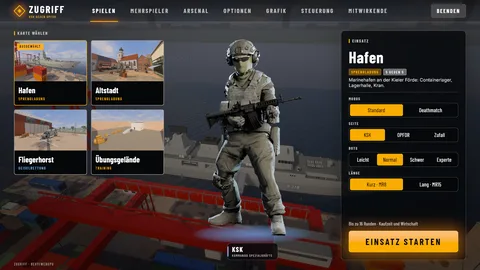
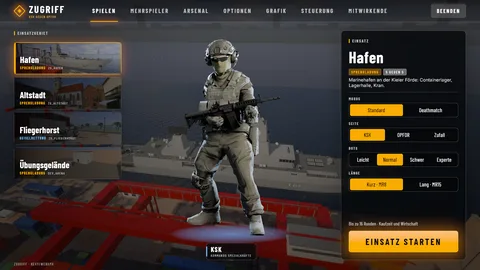
Restore the original vertical map selection layout

Changed region(s): [[0.0, 0.1185, 0.7188, 1.0], [0.9688, 0.8, 1.0, 0.8593], [0.7188, 0.9778, 0.7812, 1.0]]

diff --git a/game/src/menu.rs b/game/src/menu.rs
@@ -419,7 +419,14 @@ fn emblem(c: &mut ChildSpawnerCommands, size: f32) {
 /// Maps on the left, the operator in the middle, the settings and the start on the right.
 fn lobby(body: &mut ChildSpawnerCommands, f: &Fonts, server: &AssetServer, setup: &MatchSettings) {
     body.spawn(Node { width: Val::Percent(100.0), height: Val::Percent(100.0), column_gap: Val::Px(32.0), ..default() }).with_children(|row| {
-        map_picker(row, f, server, &setup.map, Act::Map);
+        // Maps.
+        row.spawn(Node { width: Val::Px(430.0), flex_shrink: 0.0, flex_direction: FlexDirection::Column, row_gap: Val::Px(12.0), ..default() }).with_children(|col| {
+            section(col, f, "Einsatzgebiet");
+            col.spawn(Node { height: Val::Px(2.0), ..default() });
+            for (i, m) in MAPS.iter().enumerate() {
+                map_card(col, f, server, i, m, setup.map == m.name);
+            }
+        });
         // The operator.
         row.spawn(Node { flex_grow: 1.0, height: Val::Percent(100.0), flex_direction: FlexDirection::Column, justify_content: JustifyContent::End, align_items: AlignItems::Center, min_width: Val::Px(0.0), ..default() }).with_children(|mid| {
             let sides: Vec<Team> = setup.team.map_or(vec![Team::Ksk, Team::Opfor], |t| vec![t]);
@@ -504,36 +511,30 @@ fn nameplate(c: &mut ChildSpawnerCommands, f: &Fonts, t: Team) {
     });
 }
 
-/// The same map choices in solo play and room creation. Keep the full preview visible;
-/// labels live below the image so even an unselected map is easy to recognise.
-pub(crate) fn map_picker<A: Component>(c: &mut ChildSpawnerCommands, f: &Fonts, server: &AssetServer, selected: &str, action: impl Fn(usize) -> A) {
-    c.spawn(Node { width: Val::Px(600.0), flex_shrink: 0.0, flex_direction: FlexDirection::Column, row_gap: Val::Px(18.0), ..default() }).with_children(|col| {
-        section(col, f, "Karte wählen");
-        col.spawn(Node { display: Display::Grid, width: Val::Percent(100.0), grid_template_columns: RepeatedGridTrack::flex(2, 1.0), column_gap: Val::Px(16.0), row_gap: Val::Px(16.0), ..default() }).with_children(|grid| {
-            for (i, m) in MAPS.iter().enumerate() {
-                let on = selected == m.name;
-                let border = if on { AMBER } else { LINE_HI };
-                grid.spawn((
-                    Button,
-                    Node { min_width: Val::Px(0.0), border: UiRect::all(Val::Px(2.0)), border_radius: BorderRadius::all(Val::Px(8.0)), overflow: Overflow::clip(), flex_direction: FlexDirection::Column, ..default() },
-                    BackgroundColor(INK),
-                    BorderColor::all(border),
-                    Hover::new(INK, GLASS_HI, border, if on { AMBER_HI } else { SOFT }),
-                    action(i),
-                )).with_children(|card| {
-                    card.spawn((Node { width: Val::Percent(100.0), aspect_ratio: Some(16.0 / 9.0), flex_shrink: 0.0, ..default() }, ImageNode::new(server.load(format!("thumbs/{}.jpg", m.name))), Pickable::IGNORE)).with_children(|preview| {
-                        if on {
-                            preview.spawn((Node { position_type: PositionType::Absolute, top: Val::Px(10.0), left: Val::Px(10.0), padding: UiRect::axes(Val::Px(10.0), Val::Px(5.0)), border_radius: BorderRadius::all(Val::Px(3.0)), ..default() }, BackgroundColor(AMBER), Pickable::IGNORE)).with_children(|badge| {
-                                badge.spawn((caps("Ausgewählt", &f.bold, 14.0, INK), Pickable::IGNORE));
-                            });
-                        }
-                    });
-                    card.spawn((Node { flex_direction: FlexDirection::Column, padding: UiRect::all(Val::Px(16.0)), row_gap: Val::Px(6.0), ..default() }, Pickable::IGNORE)).with_children(|caption| {
-                        caption.spawn((text(m.title, &f.bold, 32.0, Color::WHITE), Pickable::IGNORE));
-                        caption.spawn((caps(if m.name == "dev_arena" { "Training" } else { m.objective }, &f.label, 15.0, objective_color(m.objective)), Pickable::IGNORE));
-                    });
-                });
-            }
+fn map_card(c: &mut ChildSpawnerCommands, f: &Fonts, server: &AssetServer, i: usize, m: &MapInfo, on: bool) {
+    let border = if on { AMBER } else { LINE };
+    c.spawn((
+        Button,
+        Node { width: Val::Percent(100.0), height: Val::Px(128.0), border: UiRect::all(Val::Px(if on { 2.0 } else { 1.0 })), border_radius: BorderRadius::all(Val::Px(12.0)), overflow: Overflow::clip(), align_items: AlignItems::End, ..default() },
+        BackgroundColor(GLASS_HI),
+        BorderColor::all(border),
+        Hover::new(GLASS_HI, GLASS_HI, border, if on { AMBER_HI } else { LINE_HI }),
+        BoxShadow::new(if on { Color::srgba(1.0, 0.6, 0.0, 0.25) } else { Color::srgba(0.0, 0.0, 0.0, 0.4) }, Val::Px(0.0), Val::Px(6.0), Val::Px(0.0), Val::Px(20.0)),
+        Act::Map(i),
+    ))
+    .with_children(|card| {
+        // The refreshed 16:9 preview, centred in the original strip.
+        card.spawn((Node { position_type: PositionType::Absolute, left: Val::Px(0.0), top: Val::Px(-57.0), width: Val::Percent(100.0), aspect_ratio: Some(16.0 / 9.0), ..default() }, ImageNode::new(server.load(format!("thumbs/{}.jpg", m.name))).with_color(if on { Color::srgb(0.8, 0.8, 0.8) } else { Color::srgb(0.42, 0.44, 0.46) }), Pickable::IGNORE));
+        card.spawn((full(), BackgroundGradient::from(LinearGradient::to_right(vec![ColorStop::percent(Color::srgba(0.01, 0.015, 0.02, 0.92), 0.0), ColorStop::percent(Color::srgba(0.01, 0.015, 0.02, 0.0), 100.0)])), Pickable::IGNORE));
+        if on {
+            card.spawn((Node { position_type: PositionType::Absolute, left: Val::Px(0.0), top: Val::Px(0.0), bottom: Val::Px(0.0), width: Val::Px(5.0), ..default() }, BackgroundColor(AMBER), Pickable::IGNORE));
+        }
+        card.spawn((Node { flex_direction: FlexDirection::Column, padding: UiRect::new(Val::Px(22.0), Val::Px(16.0), Val::Px(0.0), Val::Px(14.0)), row_gap: Val::Px(4.0), ..default() }, Pickable::IGNORE)).with_children(|t| {
+            t.spawn((text(m.title, &f.bold, 36.0, Color::WHITE), TextShadow { offset: Vec2::splat(2.0), color: Color::srgba(0.0, 0.0, 0.0, 0.6) }, Pickable::IGNORE));
+            t.spawn(Node { column_gap: Val::Px(10.0), align_items: AlignItems::Center, ..default() }).with_children(|r| {
+                r.spawn((caps(m.objective, &f.bold, 14.0, objective_color(m.objective)), Pickable::IGNORE));
+                r.spawn((caps(m.name, &f.label, 13.0, DIM), Pickable::IGNORE));
+            });
         });
     });
 }

diff --git a/game/src/netmenu.rs b/game/src/netmenu.rs
@@ -10,7 +10,7 @@ use crate::link::{self, Link, LinkEvent};
 use crate::menu::{MenuState, Screen, MAPS};
 use crate::net::{Net, Stage};
 use crate::options::Options;
-use crate::ui_kit::{caps, ghost, glass, primary, rule, section, segmented, Hover, AMBER_HI, DANGER, DIM, INK, LINE, LINE_HI, MONEY, SOFT};
+use crate::ui_kit::{caps, ghost, glass, primary, rule, section, segmented, Hover, AMBER_HI, DANGER, DIM, GLASS_HI, INK, LINE, LINE_HI, MONEY, SOFT};
 use bevy::input::keyboard::{Key, KeyboardInput};
 use bevy::input::ButtonState;
 use bevy::prelude::*;
@@ -621,7 +621,30 @@ fn create_page(body: &mut ChildSpawnerCommands, f: &Fonts, server: &AssetServer,
     let ui = v.ui;
     let s = &ui.setup;
     body.spawn(Node { width: Val::Percent(100.0), height: Val::Percent(100.0), column_gap: Val::Px(28.0), ..default() }).with_children(|row| {
-        crate::menu::map_picker(row, f, server, &s.map, NetAct::Map);
+        // Maps.
+        row.spawn(Node { width: Val::Px(430.0), flex_shrink: 0.0, flex_direction: FlexDirection::Column, row_gap: Val::Px(12.0), ..default() }).with_children(|col| {
+            section(col, f, "Karte");
+            for (i, m) in MAPS.iter().enumerate() {
+                let on = s.map == m.name;
+                let border = if on { AMBER } else { LINE };
+                col.spawn((
+                    Button,
+                    Node { width: Val::Percent(100.0), height: Val::Px(112.0), border: UiRect::all(Val::Px(if on { 2.0 } else { 1.0 })), border_radius: BorderRadius::all(Val::Px(12.0)), overflow: Overflow::clip(), align_items: AlignItems::End, ..default() },
+                    BackgroundColor(GLASS_HI),
+                    BorderColor::all(border),
+                    Hover::new(GLASS_HI, GLASS_HI, border, if on { AMBER_HI } else { LINE_HI }),
+                    NetAct::Map(i),
+                ))
+                .with_children(|card| {
+                    card.spawn((Node { position_type: PositionType::Absolute, left: Val::Px(0.0), top: Val::Px(-65.0), width: Val::Percent(100.0), aspect_ratio: Some(16.0 / 9.0), ..default() }, ImageNode::new(server.load(format!("thumbs/{}.jpg", m.name))).with_color(if on { Color::srgb(0.8, 0.8, 0.8) } else { Color::srgb(0.42, 0.44, 0.46) }), Pickable::IGNORE));
+                    card.spawn((Node { position_type: PositionType::Absolute, width: Val::Percent(100.0), height: Val::Percent(100.0), ..default() }, BackgroundGradient::from(LinearGradient::to_right(vec![ColorStop::percent(Color::srgba(0.01, 0.015, 0.02, 0.92), 0.0), ColorStop::percent(Color::srgba(0.01, 0.015, 0.02, 0.0), 100.0)])), Pickable::IGNORE));
+                    card.spawn((Node { flex_direction: FlexDirection::Column, padding: UiRect::new(Val::Px(20.0), Val::Px(16.0), Val::Px(0.0), Val::Px(12.0)), ..default() }, Pickable::IGNORE)).with_children(|t| {
+                        t.spawn((text(m.title, &f.bold, 32.0, Color::WHITE), Pickable::IGNORE));
+                        t.spawn((caps(m.objective, &f.bold, 13.0, if m.objective == "Geiselrettung" { KSK } else { AMBER }), Pickable::IGNORE));
+                    });
+                });
+            }
+        });
         // Rules.
         row.spawn(glass(Node { flex_grow: 1.0, min_width: Val::Px(0.0), flex_direction: FlexDirection::Column, row_gap: Val::Px(16.0), padding: UiRect::all(Val::Px(28.0)), ..default() })).with_children(|p| {
             section(p, f, "Regeln");

diff --git a/docs/VALIDATION.md b/docs/VALIDATION.md
@@ -55,3 +55,12 @@ public so Pages and public-repository runners can be used.
 - Client and server compiled. The Linux 0.1.4 bundle smoke check passed.
 - Refreshed the website/README menu capture. Static asset checks and the eight-image
   gallery check passed, including viewer navigation and desktop/mobile layouts.
+
+## Original map-list layout restored (0.1.5)
+
+- Restored the original narrow vertical map list, overlaid titles/objectives,
+  selected-card accent, and operator spacing in solo and multiplayer setup.
+- Kept the refreshed map captures and their 16:9 proportions. This supersedes
+  the two-column layout introduced in 0.1.4.
+- The native build passed; scripted clicks loaded all four maps. The website and
+  README menu image were refreshed from the restored layout.
